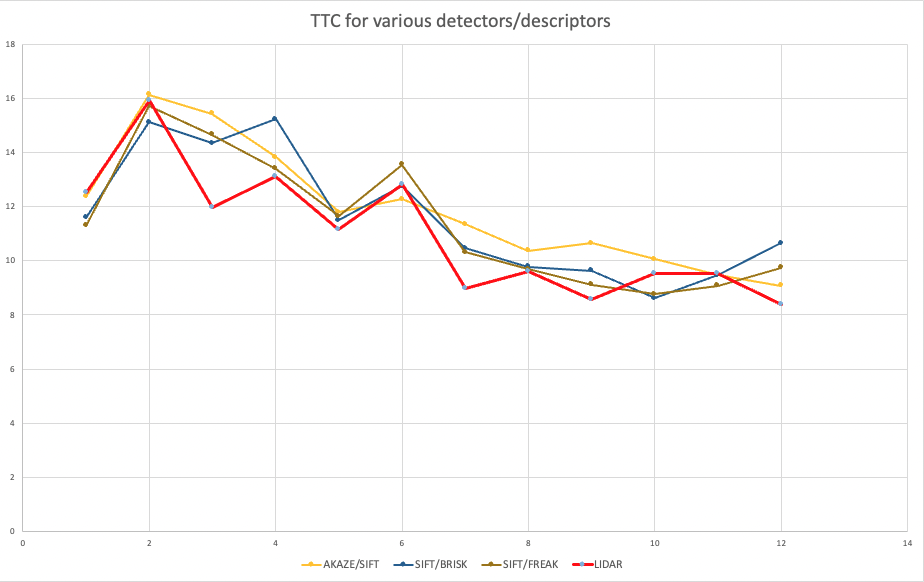
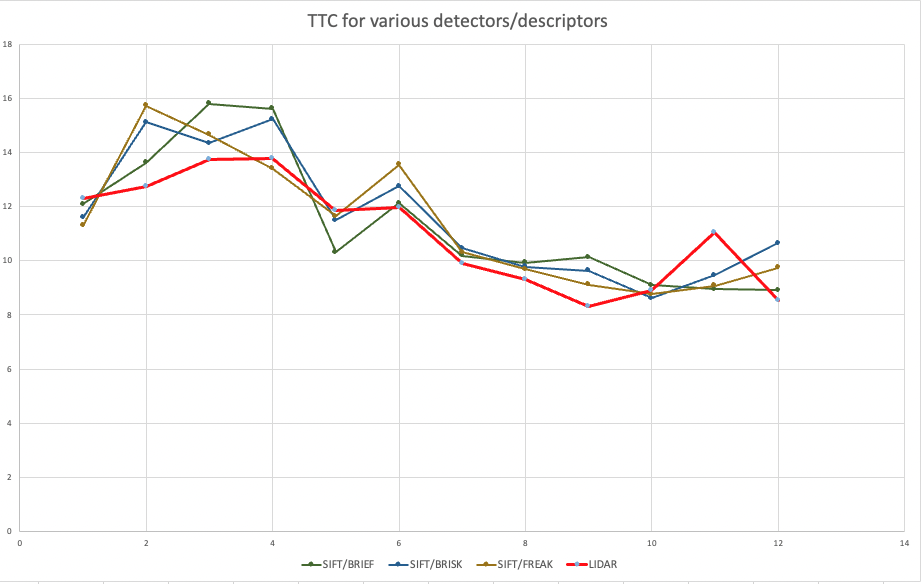
Fixed FP.2 and matchBoundingBoxes

diff --git a/src/camFusion_Student.cpp b/src/camFusion_Student.cpp
@@ -218,6 +218,24 @@ void computeTTCCamera(std::vector<cv::KeyPoint> &kptsPrev, std::vector<cv::KeyPo
     TTC = -dT / (1 - medDistRatio);
 }
 
+void getMeanStdDev(std::vector<LidarPoint> & lidarPoints, double& mean, double& std_dev)
+{
+    double sum = 0.0f;
+    std::accumulate(lidarPoints.begin(), lidarPoints.end(), 0, [](const int& a, LidarPoint& p)
+    {
+        return a + p.x; 
+    });
+
+    // get mean and std dev
+    mean = sum / lidarPoints.size();
+    std::vector<double> diff(lidarPoints.size());
+    for(auto p : lidarPoints)
+    {
+        diff.push_back(p.x - mean);
+    }
+    double sq_sum = std::inner_product(diff.begin(), diff.end(), diff.begin(), 0.0);
+    std_dev = std::sqrt(sq_sum / diff.size());
+}
 
 void computeTTCLidar(std::vector<LidarPoint> &lidarPointsPrev,
                      std::vector<LidarPoint> &lidarPointsCurr, double frameRate, double &TTC)
@@ -226,27 +244,41 @@ void computeTTCLidar(std::vector<LidarPoint> &lidarPointsPrev,
     double dT = 1 / frameRate;        // time between two measurements in seconds
     double deltaX = 1 / frameRate;
 
-    // find closest distance to Lidar points within ego lane
+    // find mean and std.dev from lidar measurements
+    double mean_prev = 0.0f, stddev_prev = 0.0f;
+    double mean_curr = 0.0f, stddev_curr = 0.0f;
+    getMeanStdDev(lidarPointsPrev, mean_prev, stddev_prev);
+    getMeanStdDev(lidarPointsCurr, mean_curr, stddev_curr);
 
-    std::sort(lidarPointsPrev.begin(), lidarPointsPrev.end(), 
-        [](const LidarPoint& p1, LidarPoint& p2) 
+    // find inliers which resides in 3 * std_dev
+    std::vector<double> inliers_prev;
+    std::vector<double> inliers_curr;
+
+    for (auto p : lidarPointsPrev)
     {
-        return p1.x < p2.x;
-    });
+        if(abs(p.x - mean_prev) < 3 * stddev_prev)
+        {
+            inliers_prev.push_back(p.x);
+        }
+    }
 
-    std::sort(lidarPointsCurr.begin(), lidarPointsCurr.end(), 
-        [](const LidarPoint& p1, LidarPoint& p2) 
+    for (auto p : lidarPointsCurr)
     {
-        return p1.x < p2.x;
-    });
+        if(abs(p.x - mean_curr) < 3 * stddev_curr)
+        {
+            inliers_curr.push_back(p.x);
+        }
+    }
 
-    double minXPrev = 1e9, minXCurr = 1e9;
-    minXPrev = lidarPointsPrev[lidarPointsPrev.size()/2].x;
-    minXCurr = lidarPointsCurr[lidarPointsCurr.size()/2].x;
+    // get mean value of inliers
+    double d0 = 1e9, d1 = 1e9;
+    d0 = std::accumulate(inliers_prev.begin(), inliers_prev.end(), 0.0) / inliers_prev.size();
+    d1 = std::accumulate(inliers_curr.begin(), inliers_curr.end(), 0.0) / inliers_curr.size();
 
     // Using the constant-velocity model 
-    TTC = minXCurr * dT / (minXPrev - minXCurr);
+    TTC = d1 * dT / (d0 - d1);
 }
+
 
 
 void matchBoundingBoxes(
@@ -258,14 +290,6 @@ void matchBoundingBoxes(
     std::vector<int> maxMatchIdx(currFrame.boundingBoxes.size(), 0);
     std::vector<int> maxMatchCounts(currFrame.boundingBoxes.size(), 0);
     std::vector<bool> isUsed(prevFrame.boundingBoxes.size());
-    // predefine 2d map for matching 
-    for(int i = 0; i < currFrame.boundingBoxes.size(); ++i)
-    {
-        for(int j = 0; j < prevFrame.boundingBoxes.size(); ++j)
-        {
-            matchCounts[i][j] = 0;
-        }
-    }
 
     // Associate keypoints in matches with bounding boxes
     for (auto match: matches) 
@@ -292,6 +316,18 @@ void matchBoundingBoxes(
         
         if((prevBoxId != -1) && (currBoxId != -1)) 
         {
+            if(matchCounts.find(currBoxId) == matchCounts.end())
+            {
+                matchCounts.insert({prevBoxId, std::map<int, int>()});
+                matchCounts[currBoxId][prevBoxId] = 0;
+            }
+            else
+            {
+                if(matchCounts[currBoxId].find(prevBoxId) == matchCounts[currBoxId].end())
+                {
+                    matchCounts[currBoxId][prevBoxId] = 0;
+                }
+            }
             matchCounts[currBoxId][prevBoxId] += 1;
             int count = matchCounts[currBoxId][prevBoxId];
             if(count > maxMatchCounts[currBoxId]) {

diff --git a/src/FinalProject_Camera.cpp b/src/FinalProject_Camera.cpp
@@ -27,8 +27,8 @@ int main(int argc, const char *argv[])
 {
     /* INIT VARIABLES AND DATA STRUCTURES */
 
-    string detectorType = "FAST"; //AKAZE, BRISK, FAST, HARRIS, ORB, SHITOMASI
-    string descriptorType = "BRISK"; // BRISK, BRIEF, ORB, FREAK, AKAZE, SIFT
+    string detectorType = "SIFT"; //AKAZE, BRISK, FAST, HARRIS, ORB, SHITOMASI
+    string descriptorType = "FREAK"; // BRISK, BRIEF, ORB, FREAK, AKAZE, SIFT
     bool bVis = true;
 
     if(argc > 2)
@@ -155,7 +155,7 @@ int main(int argc, const char *argv[])
         // Visualize 3D objects
         if(bVis)
         {
-            show3DObjects((dataBuffer.end()-1)->boundingBoxes, cv::Size(4.0, 20.0), cv::Size(2000, 2000), true);
+            show3DObjects((dataBuffer.end()-1)->boundingBoxes, cv::Size(4.0, 20.0), cv::Size(2000, 2000), false);
         }
 
         // cout << "#4 : CLUSTER LIDAR POINT CLOUD done" << endl;
@@ -309,7 +309,7 @@ int main(int argc, const char *argv[])
                         cv::imshow(windowName, visImg);
                         
                         printf("TTC Lidar : %f s, TTC Camera : %f s\n", ttcLidar, ttcCamera);
-                        cout << "Press key to continue to next frame" << endl;
+                         cout << "Press key to continue to next frame" << endl;
                         cv::waitKey(0);
                     }
                     else

diff --git a/README.md b/README.md
@@ -54,8 +54,10 @@ Please refer `matchBoundingBoxes()` in `camFusion_Student.cpp` for the details.
 ### FP2. Compute Lidar-based TTC
 
 I implementated a lidar based TTC computation based on the constant-velocity model.
-First, the algorithm sort the distance of each points in ascending order for each box. 
-I reduced outlier influence by measuring TTC with using median distance not the closest one.
+For reducing outlier influence on TTC measurement, I only considered the inliers on each measurement which are resides under 99.7% confidence interval(<=3*sigma).
+Therefore, the code calculates the mean and the standard deviation of each frame.
+Then, it finds inliers which resides under 99.7 confidence interval.
+Finally, it compute distances by mean value of inliers in each frame.
 
 Please refer `computeTTCLidar()` in `camFusion_Student.cpp` for the details.
 
@@ -113,8 +115,8 @@ The top 3 are:
 
 | Detector/Descriptor | Sum of absolute error(s) | Mean of error(s) |
 | --- | --- | --- |
-| SIFT/FREAK | 10.09 | 0.84 |
-| AKAZE/SIFT | 12.54 | 1.02 |
-| SIFT/BRISK | 12.26 | 1.04 |
+| SIFT/FREAK | 11.98 | 1.00 |
+| SIFT/BRISK | 12.08 | 1.01 |
+| SIFT/BRIEF | 12.61 | 1.05 |
 
 ![TTC for various detectors/descriptors](images/ttc_measurement.png)
